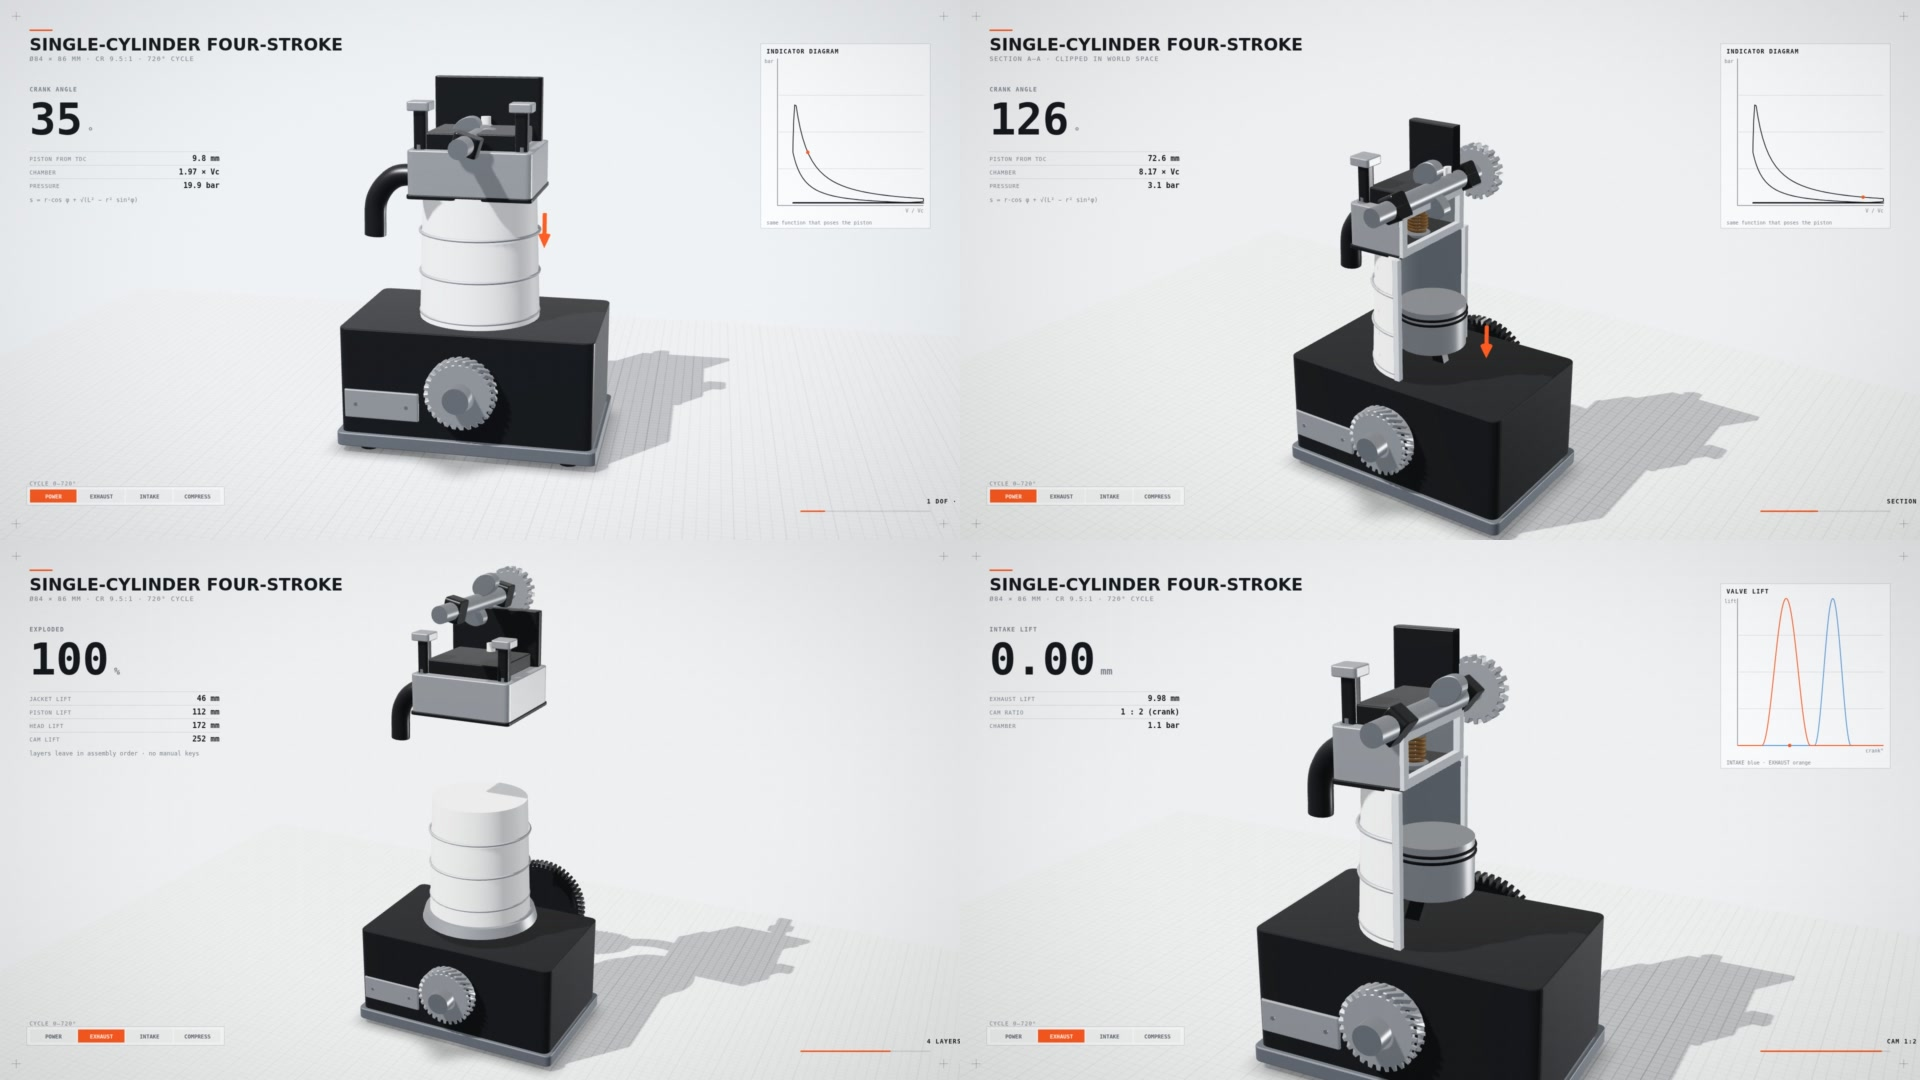
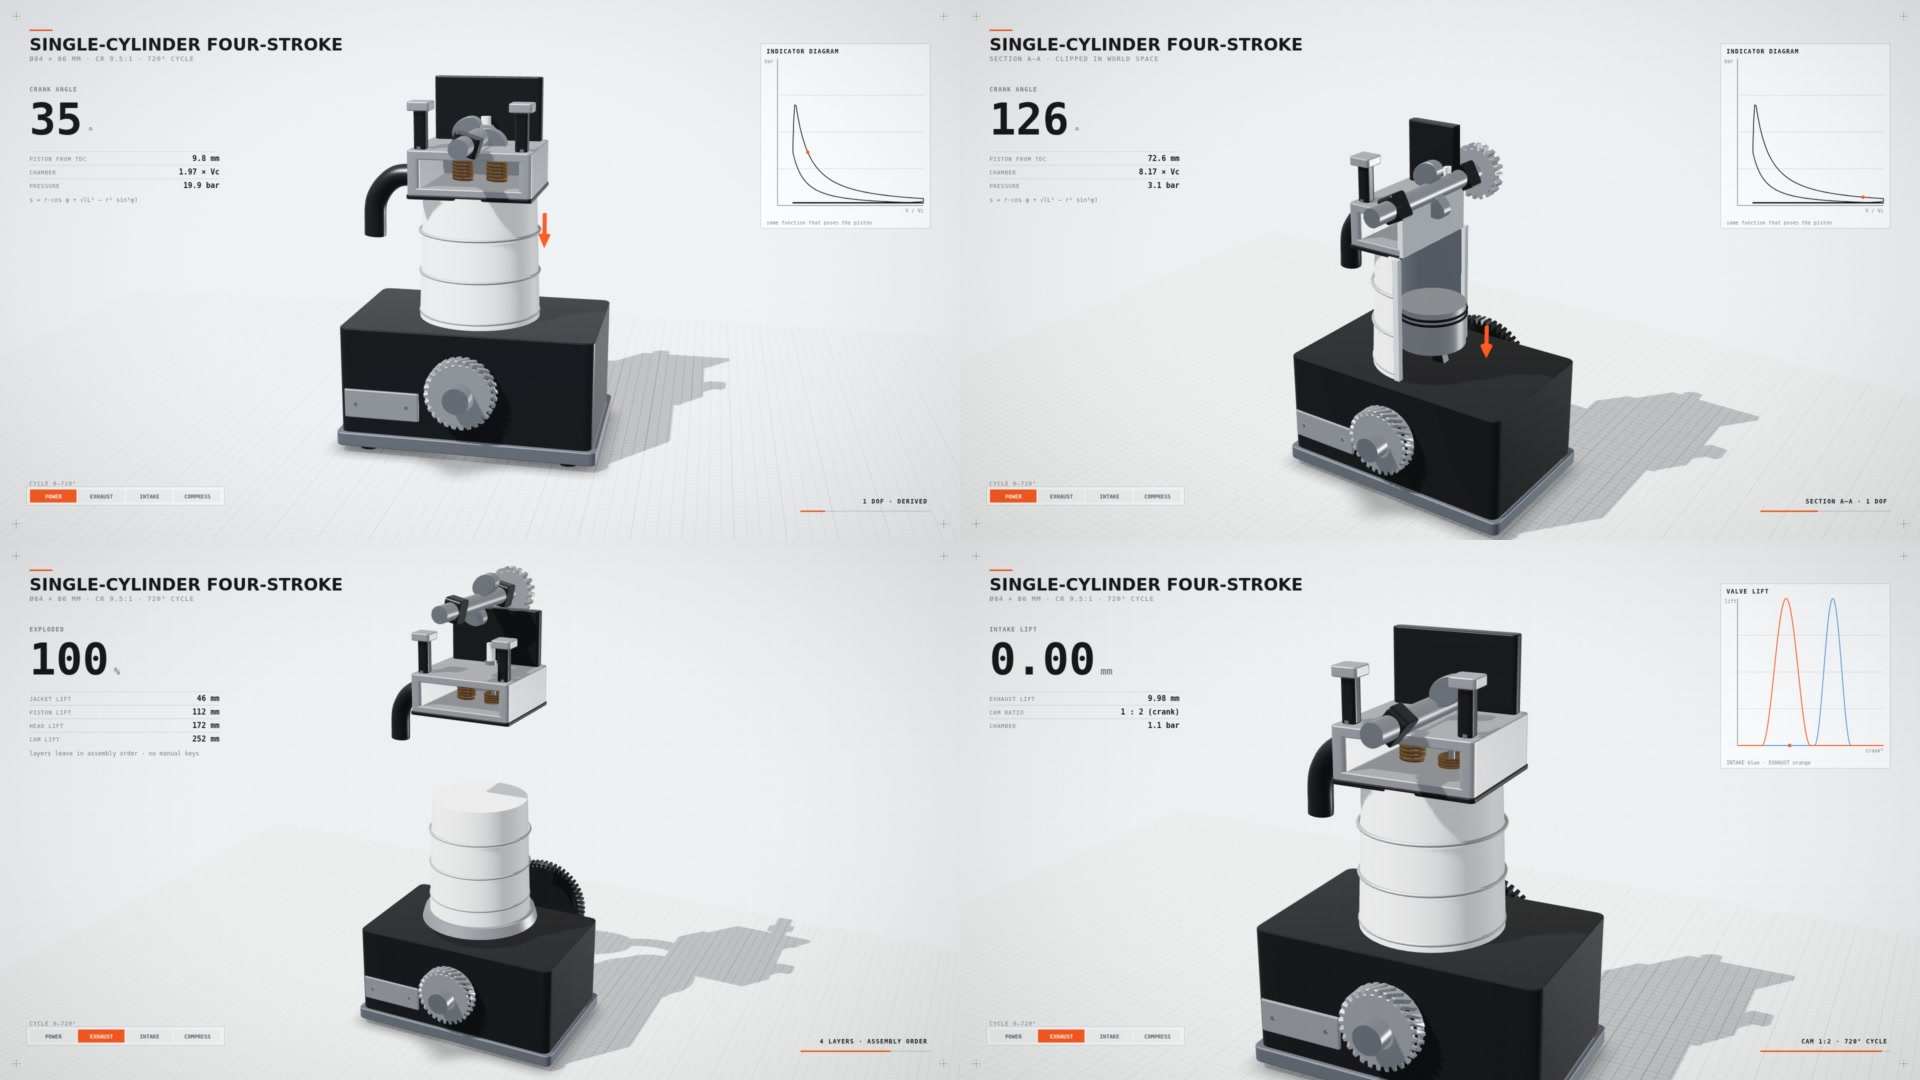
fix(calibration-lab): solid head cap, open head casting, solid valvetrain scene
- the perimeter frame read as a floating picture frame on a hollow head: cap the head solid
- head is built as an open casting (back/sides/deck/top), so valves and springs read without a cut
- scene 04 switches to solid; the cut stays where it belongs (02)
- right-aligned letter-spaced HUD tags no longer run past the frame

diff --git a/styles/calibration-lab/world.js b/styles/calibration-lab/world.js
@@ -215,16 +215,23 @@ export function buildSample(M, hostScene) {
 
   const head = new THREE.Group();
   root.add(head);
-  const headBody = add(head, blockGeometry({ w: 138, h: 52, d: 124, r: 6 }), shellAlu);
-  headBody.position.y = 238;
+  // Open-front head: an educational cutaway casting, so the valvetrain reads even without a cut.
+  const headBack = add(head, blockGeometry({ w: 138, h: 52, d: 12, r: 4 }), shellAlu);
+  headBack.position.set(0, 238, -56);
+  for (const sx of [-1, 1]) {
+    const headSide = add(head, blockGeometry({ w: 12, h: 52, d: 124, r: 4 }), shellAlu);
+    headSide.position.set(sx * 63, 238, 0);
+  }
+  const headDeck = add(head, blockGeometry({ w: 138, h: 10, d: 124, r: 4 }), shellAlu);
+  headDeck.position.y = 217;
+  const headPlate = add(head, blockGeometry({ w: 138, h: 10, d: 124, r: 4 }), shellAlu);
+  headPlate.position.y = 259;
   const gasket = add(head, blockGeometry({ w: 140, h: 5, d: 126, r: 4 }), shellBlack);
   gasket.position.y = 212;
-  const headTop = add(head, blockGeometry({ w: 104, h: 18, d: 98, r: 4 }), shellBlack);
-  headTop.position.y = 273;
   for (const sx of [-1, 1]) {
     for (const sz of [-1, 1]) {
       const b = add(head, boltGeometry({ r: 4.4, h: 7 }), valveSteel);
-      b.position.set(sx * 58, 266, sz * 51);
+      b.position.set(sx * 58, 264, sz * 51);
     }
   }
 
@@ -366,20 +373,14 @@ export function buildSample(M, hostScene) {
     capGroup.add(m);
     return m;
   };
-  const frameCap = (zHalf, yMin, yMax, t) => {
-    const yc = (yMin + yMax) / 2;
-    const h = yMax - yMin;
-    capBox(CAP_T, t, zHalf * 2, yMax - t / 2, 0);
-    capBox(CAP_T, t, zHalf * 2, yMin + t / 2, 0);
-    capBox(CAP_T, h - t * 2, t, yc, -(zHalf - t / 2));
-    capBox(CAP_T, h - t * 2, t, yc, zHalf - t / 2);
-  };
-  frameCap(62, 212, 264, 9); // cylinder head
+  const headCap = capBox(CAP_T, 52, 124, 238, 0); // solid cut face of the head casting
   const jacketCaps = [capBox(CAP_T, 180, CAP_T, 122, 0), capBox(CAP_T, 180, CAP_T, 122, 0)];
 
+  let capSeeValves = false;
   const placeCap = () => {
     const cMm = clipPlane.constant / rootScale;
     capGroup.position.set(cMm, 0, 0);
+    headCap.visible = !capSeeValves;
     const chord = 69 * 69 - cMm * cMm;
     const live = chord > 0;
     const half = live ? Math.sqrt(chord) : 0;
@@ -403,6 +404,7 @@ export function buildSample(M, hostScene) {
 
     // ---- section cut
     clipPlane.constant = ops.cutConst ?? 0.9;
+    capSeeValves = Boolean(ops.seeValves);
     const sectionOn = cut === 'section';
     if (cut !== cutNow) {
       cutNow = cut;
@@ -412,7 +414,6 @@ export function buildSample(M, hostScene) {
         m.needsUpdate = true;
       }
       capGroup.visible = sectionOn;
-      placeCap();
       jacketMat.transparent = cut === 'glass';
       jacketMat.opacity = cut === 'glass' ? 0.42 : 1;
       jacketMat.depthWrite = cut !== 'glass';
@@ -424,6 +425,8 @@ export function buildSample(M, hostScene) {
       boreSleeve.visible = sectionOn;
       charge.visible = cut !== 'section';
     }
+
+    placeCap();
 
     // ---- explode choreography (staged, so nothing passes through anything)
     const eJacket = layerEase(ex, [0.04, 0.46], 46);
@@ -659,8 +662,8 @@ export default async function createWorld({ width, height, scenes = [], style = 
       ops.explode = smootherstep(0.22, 2.3, localT);
       ops.arrows = 0;
     } else if (sceneIndex === 3) {
-      ops.cut = 'section';
-      ops.cutConst = 0.0;
+      // The head is open-front, so the valvetrain reads without a cut: keep the sample whole.
+      ops.cut = 'solid';
       ops.arrows = 0;
       ops.explode = 1 - smootherstep(0.05, 0.95, localT);
     }

diff --git a/styles/calibration-lab/kernel.js b/styles/calibration-lab/kernel.js
@@ -333,7 +333,13 @@ function spacedText(ctx, text, x, y, spacing) {
     ctx.fillText(text, x, y);
     return;
   }
-  let cx = x;
+  // fillText per glyph ignores textAlign, so honour the alignment here or right-aligned
+  // labels run off the frame.
+  const align = ctx.textAlign;
+  let total = 0;
+  for (const ch of text) total += ctx.measureText(ch).width + spacing;
+  total = Math.max(0, total - spacing);
+  let cx = align === 'right' ? x - total : align === 'center' ? x - total / 2 : x;
   for (const ch of text) {
     ctx.fillText(ch, cx, y);
     cx += ctx.measureText(ch).width + spacing;

diff --git a/styles/calibration-lab/SPEC.md b/styles/calibration-lab/SPEC.md
@@ -56,7 +56,7 @@
 | **01** | `lab-run` | 0.0–4.2s | `orbit` → `push`（低位） | 样件在台面上运行，读数已经在跳 | `brass_ratchet` ×3 |
 | **02** | `lab-section` | 4.2–8.2s | `pull` → `push` 进缸 | 剖切面 1.4s 内扫过，缸内与示功图同时可读 | `scale_tilt`, `count_tick` |
 | **03** | `lab-explode` | 8.2–12.2s | `rise` → `orbit` | 按装配顺序分层：曲轴 → 活塞 → 缸盖 → 凸轮 | `card_enter` ×4 |
-| **04** | `lab-valves` | 12.2–16.0s | 极近 `push` → `pull` 回全景 | 回装；升程曲线与气门对位 | `count_tick` ×2 |
+| **04** | `lab-valves` | 12.2–16.0s | 推近缸盖 | 回装（**solid**，不剖切）；开放缸盖让气门、弹簧与凸轮直接可见，配升程曲线 | `count_tick` ×2 |
 
 ---
 
@@ -75,6 +75,6 @@
 - [x] `node tools/render.mjs --style calibration-lab --sheet styles/calibration-lab/contact_sheet.jpg` 已生成并逐格读图（2026-11-01）
 - [x] `gallery/catalog.js` 已注册 `stageMode` / `bestFor` / `avoidFor` / `cameraPresets`
 
-细节层：凸轮室由后壁 + 两根前立柱与轴承盖围出（前向开放，剖面里能看到凸轮与弹簧，固体视角不出现“悬空横杆”），后端正时链轮随凸轮转动，机匣前脸有铆接铭牌，排气歧管按 CatmullRom 扫管生成。
+细节层：凸轮室由后壁 + 两根前立柱与轴承盖围出（前向开放）；缸盖做成**开放机体**（后壁 / 两侧壁 / 缸面 / 顶板，前面敞开），所以 solid 视角也能直接读到气门与弹簧，不必为了“看得见”而在每一镜都剖切；后端正时链轮随凸轮转动，机匣前脸有铆接铭牌，排气歧管按 CatmullRom 扫管生成。
 
-已知短板：cap 只覆盖缸套与缸盖两类形状（排气歧管、气门与弹簧的切面无盖）；爆炸镜头垂直节奏偏稀；仪表相位条在 1080p 下偏小。
+已知短板：cap 只覆盖缸套与缸盖两类形状（排气歧管、气门与弹簧的切面无盖）；爆炸镜头垂直节奏偏稀；仪表相位条在 1080p 下偏小；缸盖开放后 solid 视角略“教学模型”而非整机质感。
